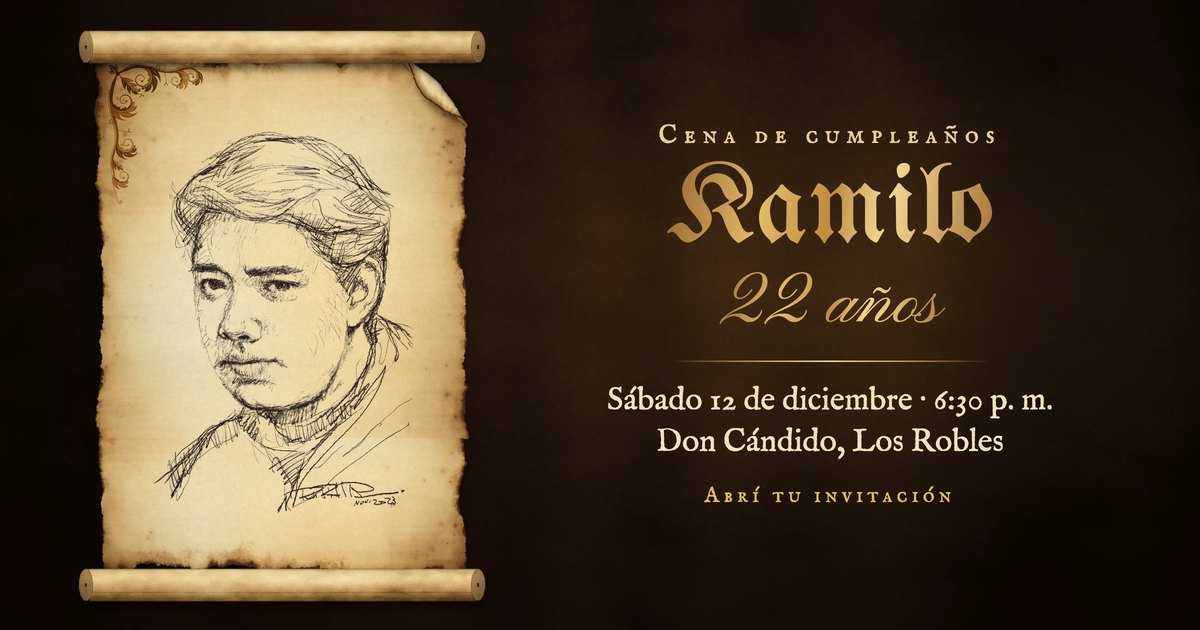
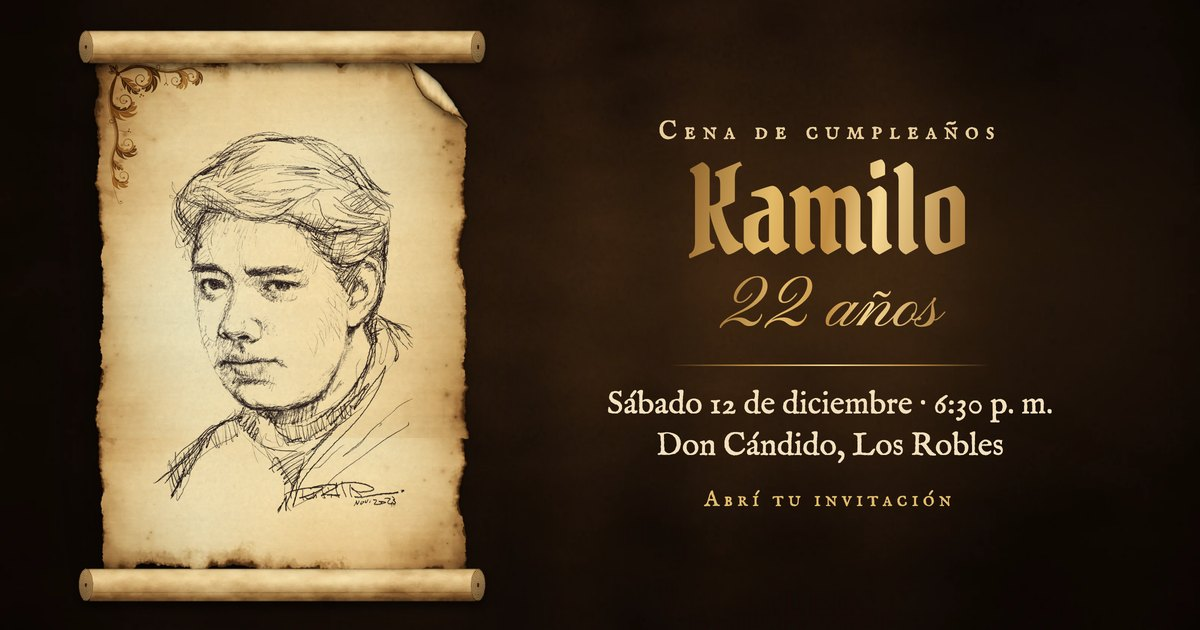
Actualiza la confirmación de asistencia del cumpleaños 22

Changed region(s): [[0.555, 0.181, 0.8325, 0.5127], [0.4933, 0.573, 0.8942, 0.7238], [0.5858, 0.7841, 0.8017, 0.8143]]

diff --git a/index.html b/index.html
@@ -18,7 +18,7 @@
 <link rel="preload" as="image" href="img/pergamino-top.webp">
 <link rel="preconnect" href="https://fonts.googleapis.com">
 <link rel="preconnect" href="https://fonts.gstatic.com" crossorigin>
-<link href="https://fonts.googleapis.com/css2?family=UnifrakturMaguntia&family=IM+Fell+English:ital@0;1&family=IM+Fell+English+SC&family=Pinyon+Script&display=swap" rel="stylesheet">
+<link href="https://fonts.googleapis.com/css2?family=Pirata+One&family=IM+Fell+English:ital@0;1&family=IM+Fell+English+SC&family=Pinyon+Script&display=swap" rel="stylesheet">
 <style>
   :root {
     --ink: #3A2210; --ink-soft: #6B4A2B; --ink-title: #2B170A;
@@ -72,7 +72,7 @@
   }
   .content p { margin: 0; }
   .titulo {
-    margin: 0; font: 400 clamp(52px, 15vw, 72px)/1 "UnifrakturMaguntia", serif; color: var(--ink-title);
+    margin: 0; font: 400 clamp(58px, 17vw, 80px)/1 "Pirata One", serif; letter-spacing: .01em; color: var(--ink-title);
     text-shadow: 0 0 1px rgba(43, 23, 10, .35), 0 1px 0 rgba(255, 240, 200, .25);
   }
   .divisor { display: block; width: 62%; max-width: 260px; height: auto; margin: 12px auto 4px; mix-blend-mode: multiply; }
@@ -117,7 +117,11 @@
     background: radial-gradient(circle, rgba(255, 196, 110, .55), rgba(255, 196, 110, 0) 65%); opacity: 0;
   }
   .sello:focus-visible { outline: 2px solid #8A5A22; outline-offset: 6px; }
-  .sello-txt { font: 400 16px/1.3 "IM Fell English SC", serif; letter-spacing: .16em; color: var(--ink-title); margin-top: 10px !important; }
+  .pista { display: block; width: 22px; height: 40px; margin: 8px auto 0; color: var(--ink-soft); animation: pista 1.6s ease-in-out infinite; transition: opacity .4s ease; }
+  @keyframes pista { 0%, 100% { transform: translateY(0); } 50% { transform: translateY(-7px); } }
+  .sello-txt { font: italic 400 19px/1.3 "IM Fell English", serif; color: var(--ink-title); margin-top: 4px !important; text-wrap: balance; }
+  body.confirmado .pista { opacity: 0; }
+  body.rm .pista { animation: none; }
   .estado { font-size: 15px; font-style: italic; color: var(--ink-soft); min-height: 1.4em; margin-top: 4px !important; }
   .sin-link { display: none; font-size: 17px; font-style: italic; color: var(--ink-soft); margin-top: 22px !important; }
   .cierre { font: 400 clamp(40px, 11vw, 50px)/1.1 "Pinyon Script", cursive; color: var(--ink-soft); margin-top: 16px !important; }
@@ -227,7 +231,10 @@
             <img class="s-base" src="img/sello.svg" alt="">
             <img class="s-ok" src="img/sello-confirmado.svg" alt="">
           </button>
-          <p class="sello-txt js-sello-txt">Confirmar asistencia</p>
+          <svg class="pista" viewBox="0 0 22 40" aria-hidden="true" fill="none" stroke="currentColor" stroke-width="1.6" stroke-linecap="round" stroke-linejoin="round">
+            <path d="M11 38 C11 30 8.5 26 11 19 S13 9 11 3"/><path d="M4.5 9.5 L11 2.5 L17.5 9.5"/><circle cx="11" cy="38.2" r="1.2" fill="currentColor" stroke="none"/>
+          </svg>
+          <p class="sello-txt js-sello-txt">Clic acá para confirmar tu asistencia</p>
           <p class="estado js-estado" id="estado" aria-live="polite"></p>
         </div>
         <p class="sin-link">Pedile a Kamilo tu invitación personal para confirmar.</p>
@@ -241,7 +248,7 @@
 
 <script>
   // URL de la aplicación web de Google Apps Script (Implementar > Aplicación web).
-  const ENDPOINT = '';
+  const ENDPOINT = 'https://script.google.com/macros/s/AKfycbyH5d-6j0D3Vmr7XsKTeGHPYim4imU2CImpWkXOArlK0hqqEmtpSt0Dy3w4eW46LvzwNg/exec';
 
   const q = new URLSearchParams(location.search);
   const nombre = (q.get('n') || '').replace(/\s+/g, ' ').trim().slice(0, 80);
